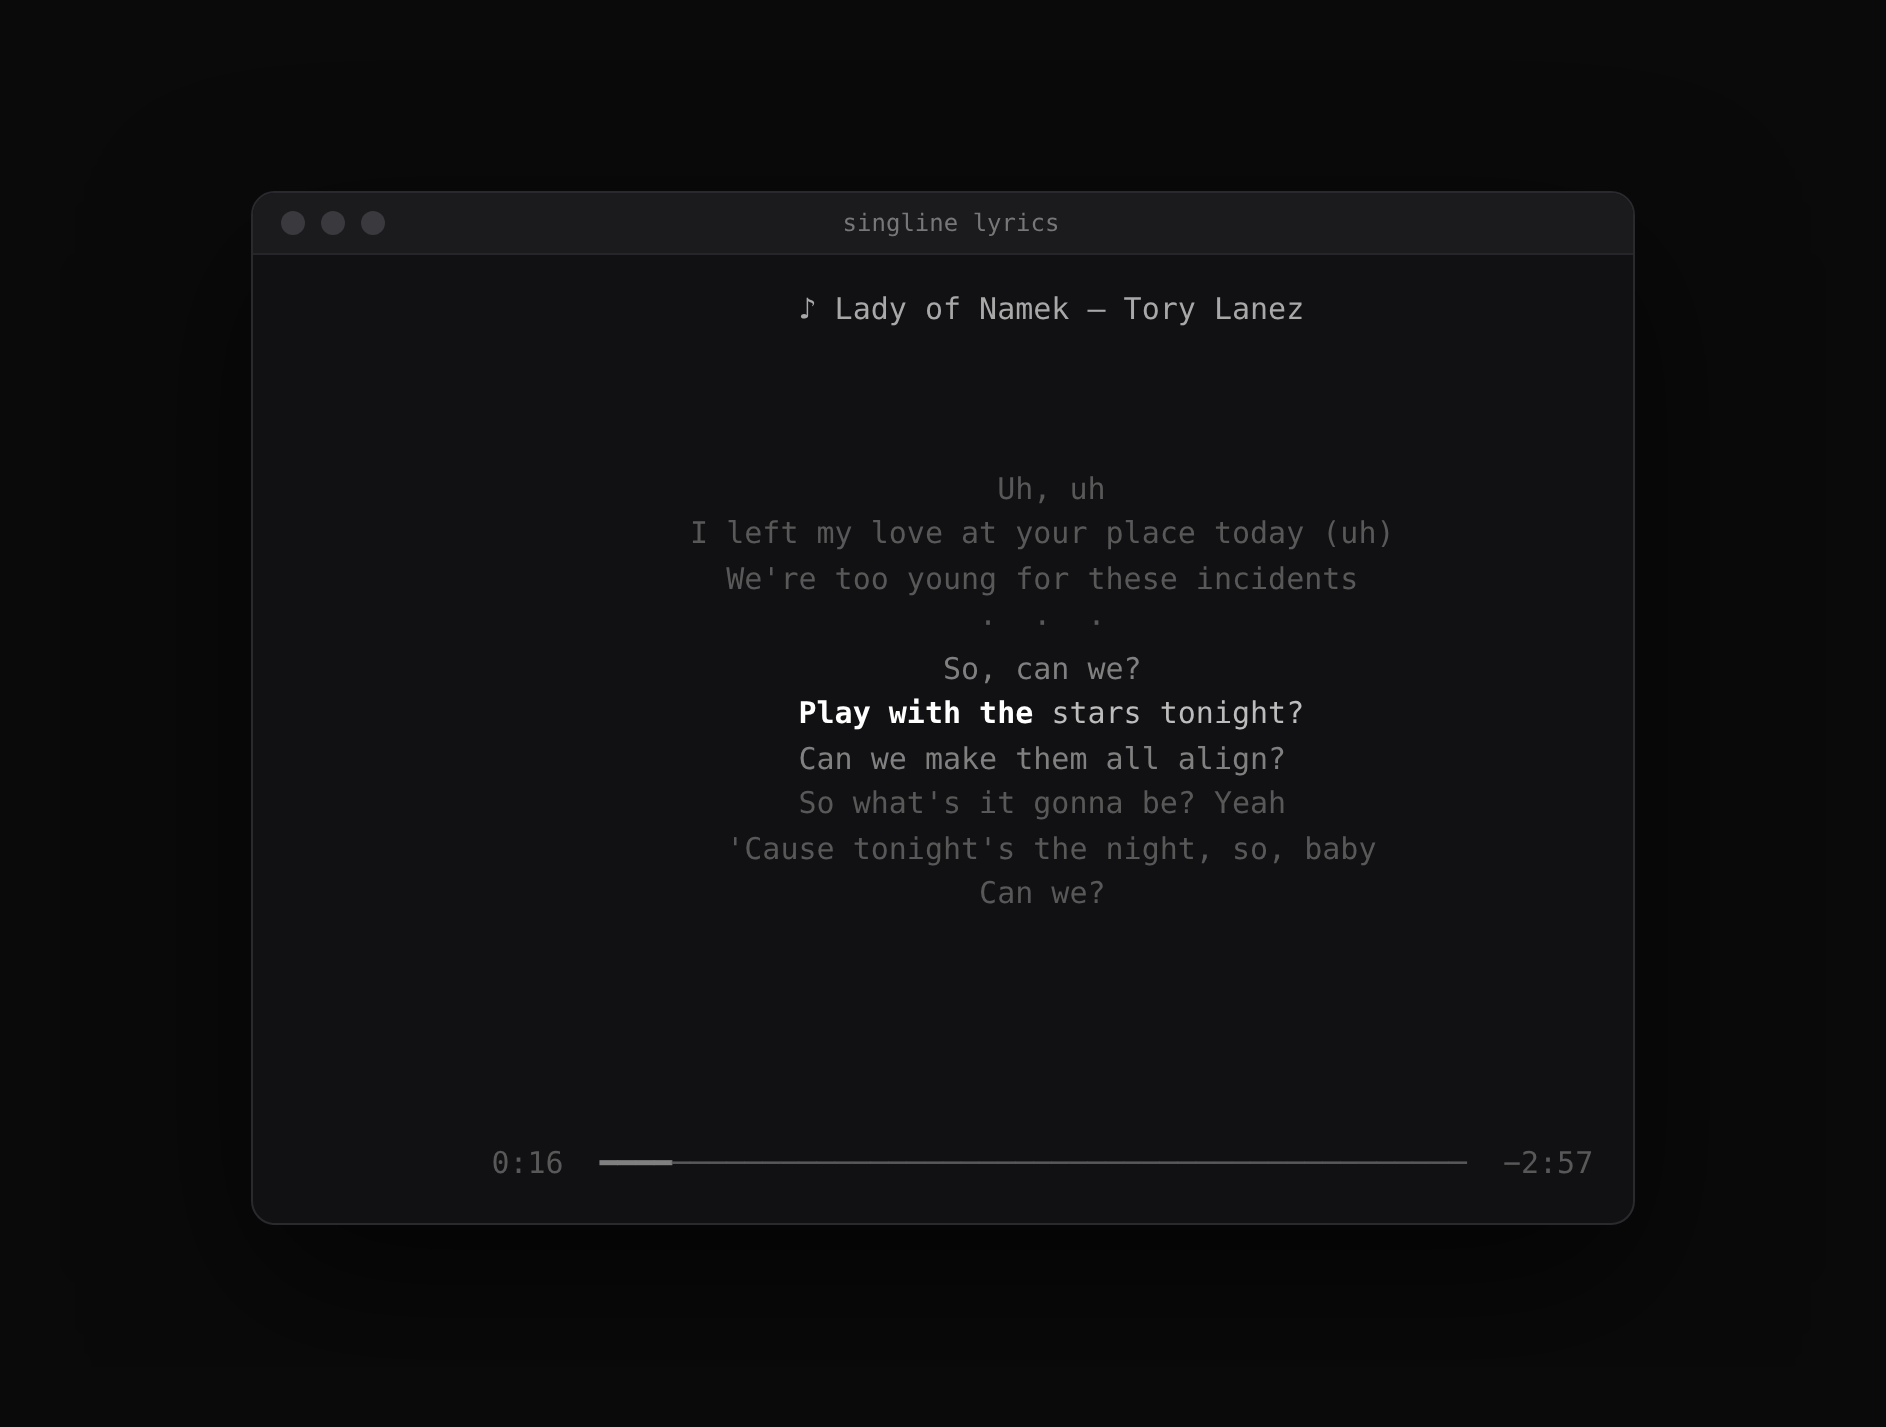
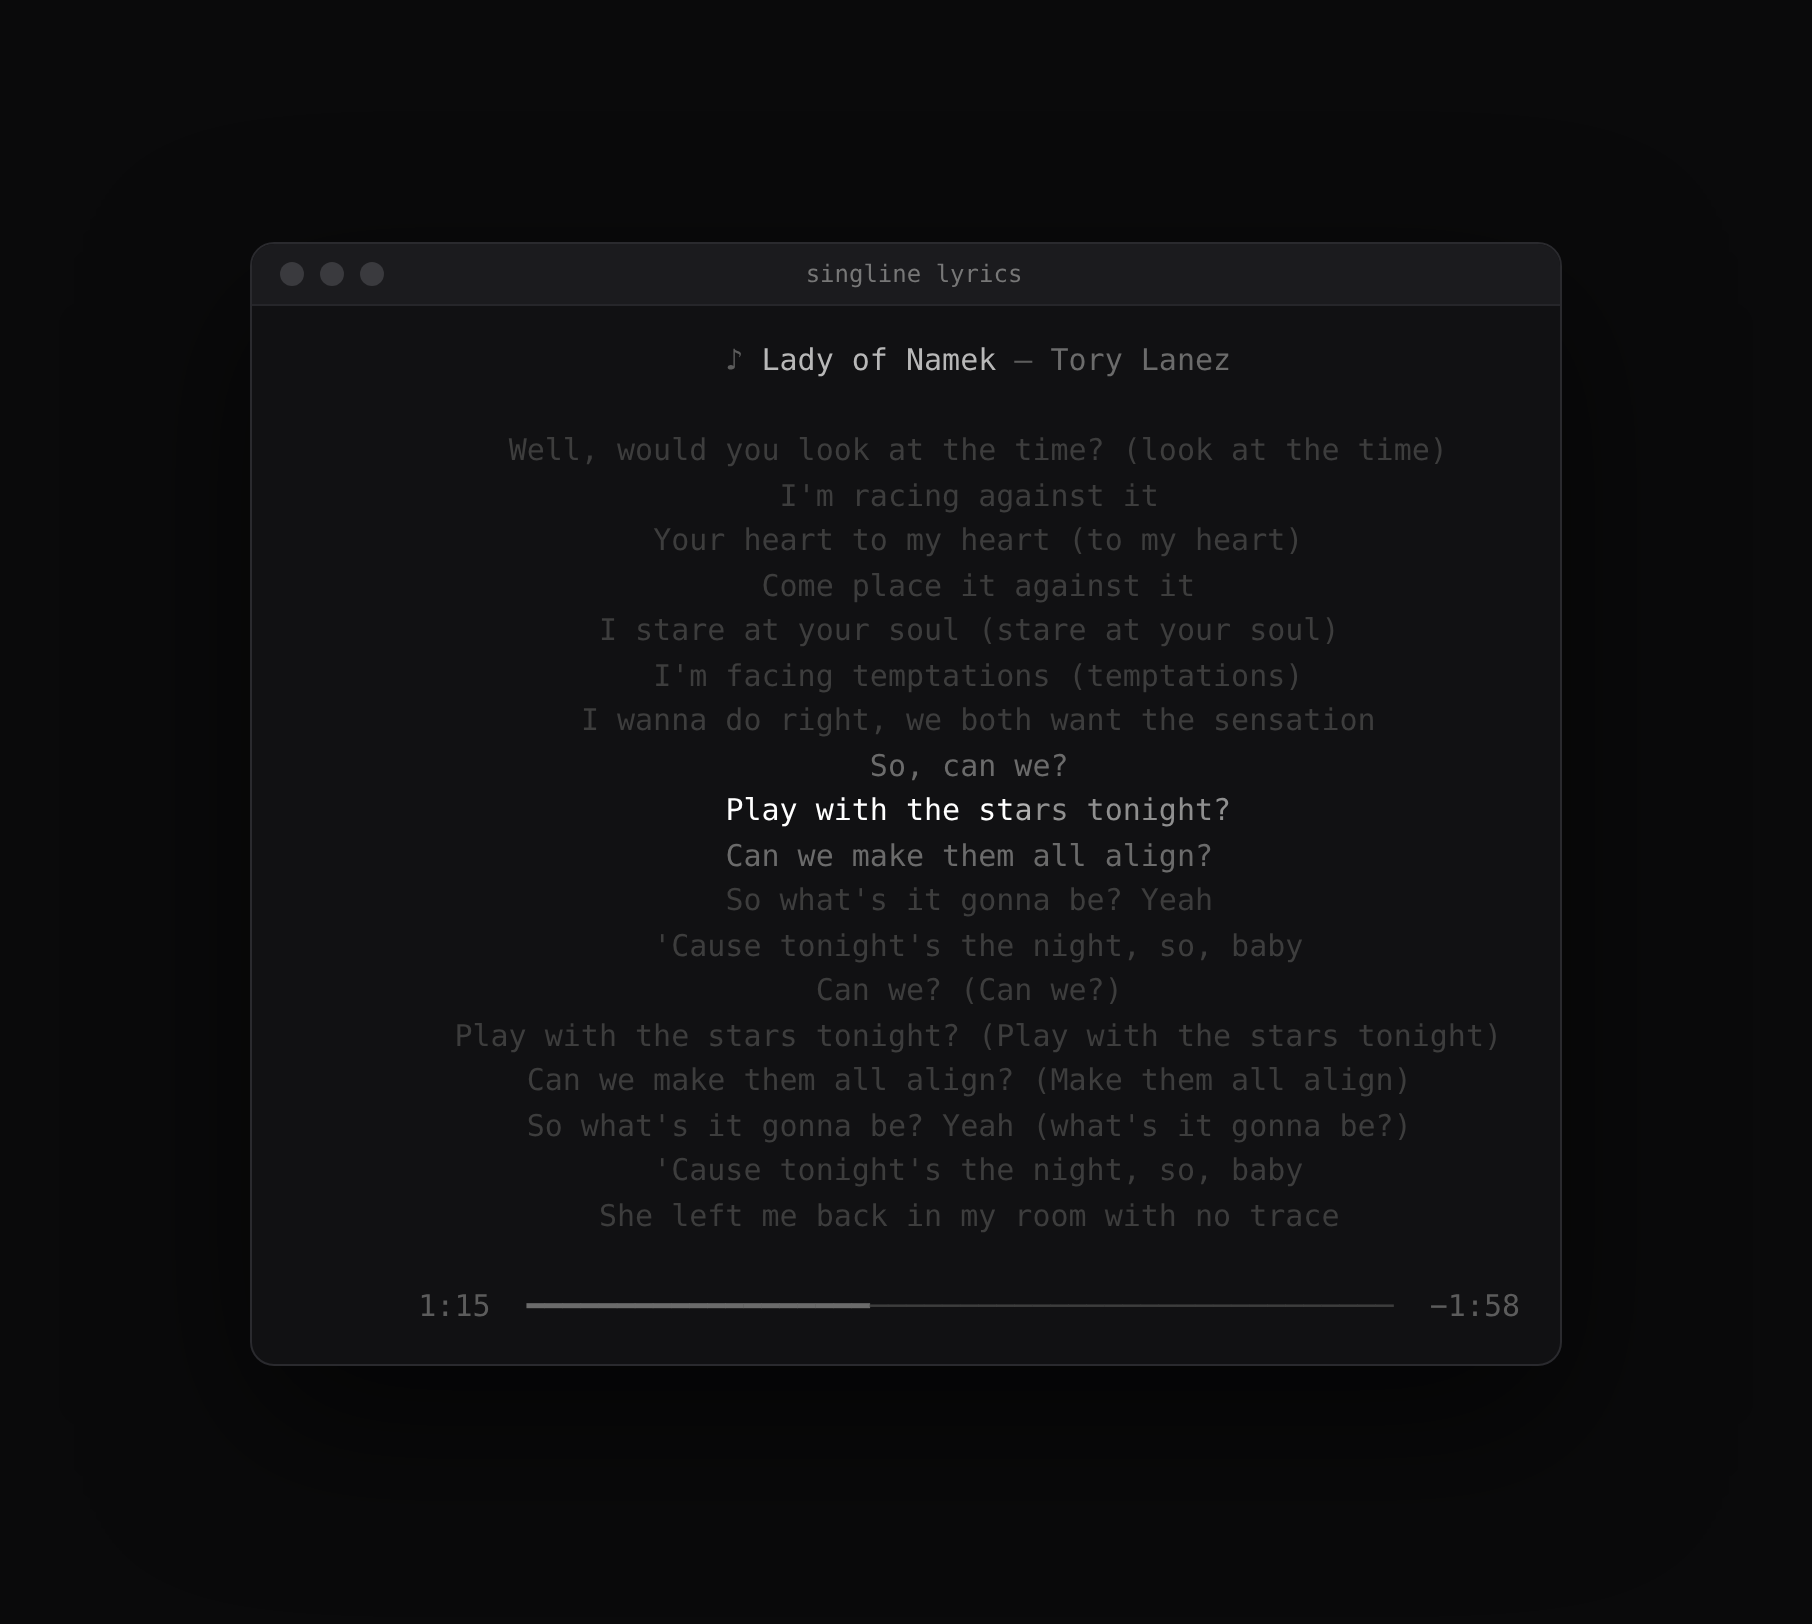
docs: show the terminal view's new look

diff --git a/README.md b/README.md
@@ -164,9 +164,9 @@ curl -fsSL https://raw.githubusercontent.com/JulianRudrich/Singline/main/extensi
 
 Then start pi, or run `/reload` in a running one. `/singline` shows or hides the lyrics.
 
-**A terminal of its own.** `singline lyrics` fills a terminal, or a tmux pane next to your code, with the lyrics: the line being sung in the middle, lighting up word by word, and the time at the bottom. q leaves.
+**A terminal of its own.** `singline lyrics` fills a terminal, or a tmux pane next to your code, with the lyrics: the line being sung in the middle, lighting up letter by letter as it is sung, the lines around it fading with distance, and the time at the bottom. It takes its colours from your terminal's theme, dark or light. q leaves.
 
-<p align="center"><img src="docs/images/terminal.png" width="640" alt="singline lyrics in a terminal: Lady of Namek by Tory Lanez at the top, the current line Play with the stars tonight? in the middle with its sung words bright, the lines around it dimmer, and a time bar at the bottom"></p>
+<p align="center"><img src="docs/images/terminal.png" width="640" alt="singline lyrics in a terminal: Lady of Namek by Tory Lanez at the top, the current line Play with the stars tonight? in the middle, bright up to the letter being sung, the lines around it fading with distance, and a time bar at the bottom"></p>
 
 **tmux and other status lines.** `singline now` prints the current line, the song between two lines, and nothing while no song plays. `--format` chooses what to print, with `{line}`, `{next}`, `{title}`, `{artist}`, `{album}` and `{player}`. For tmux, add this to `~/.tmux.conf`:
 
